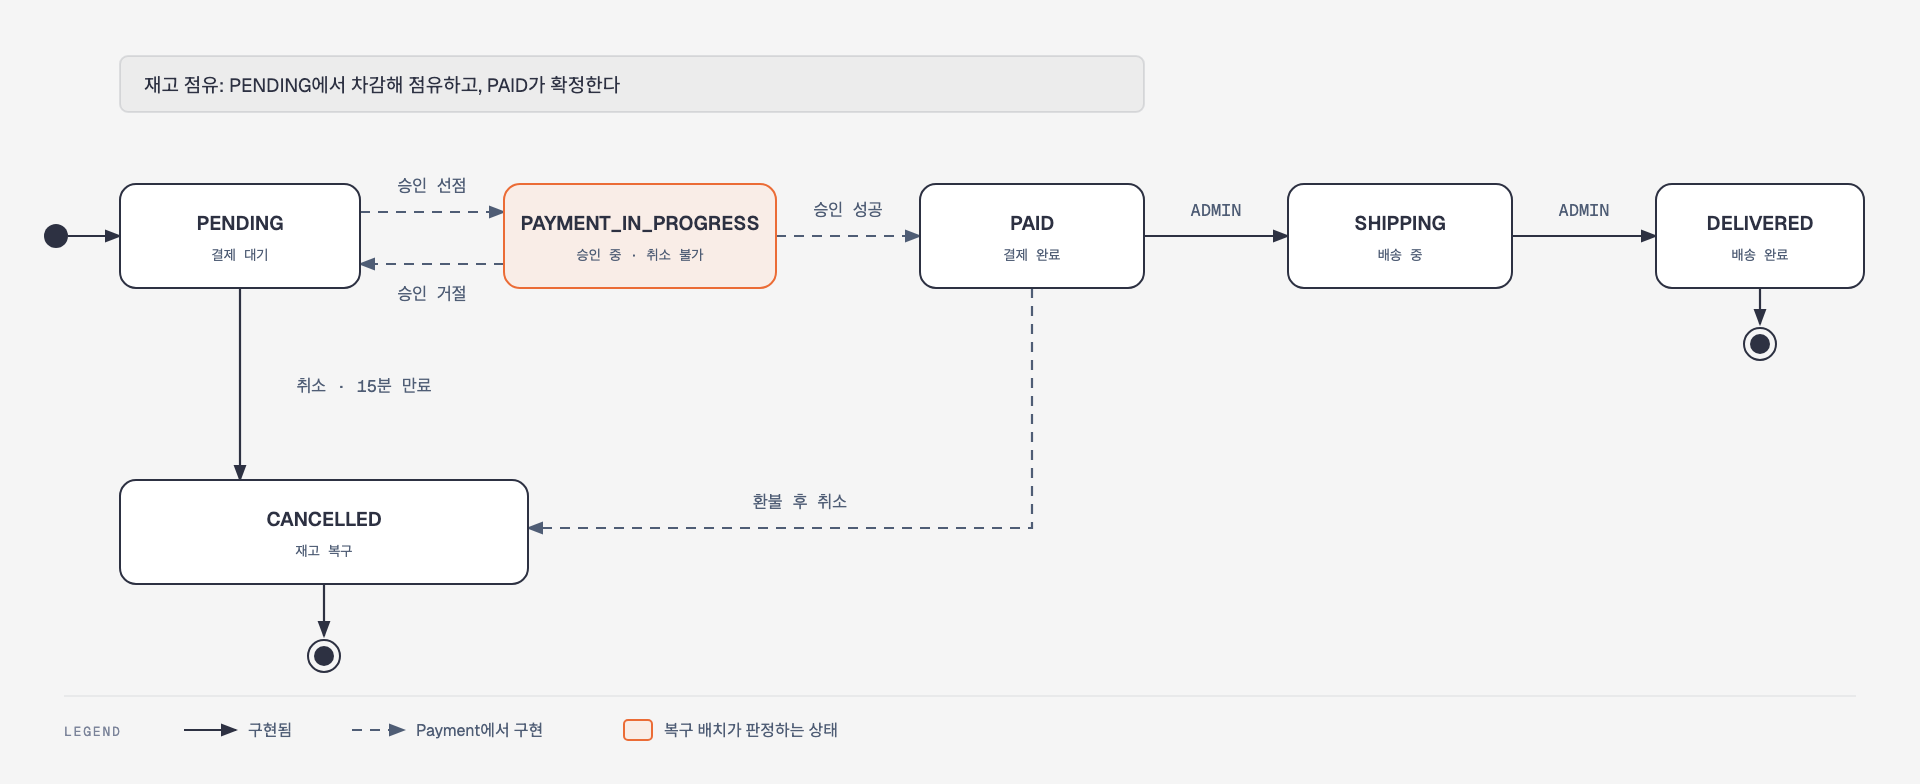
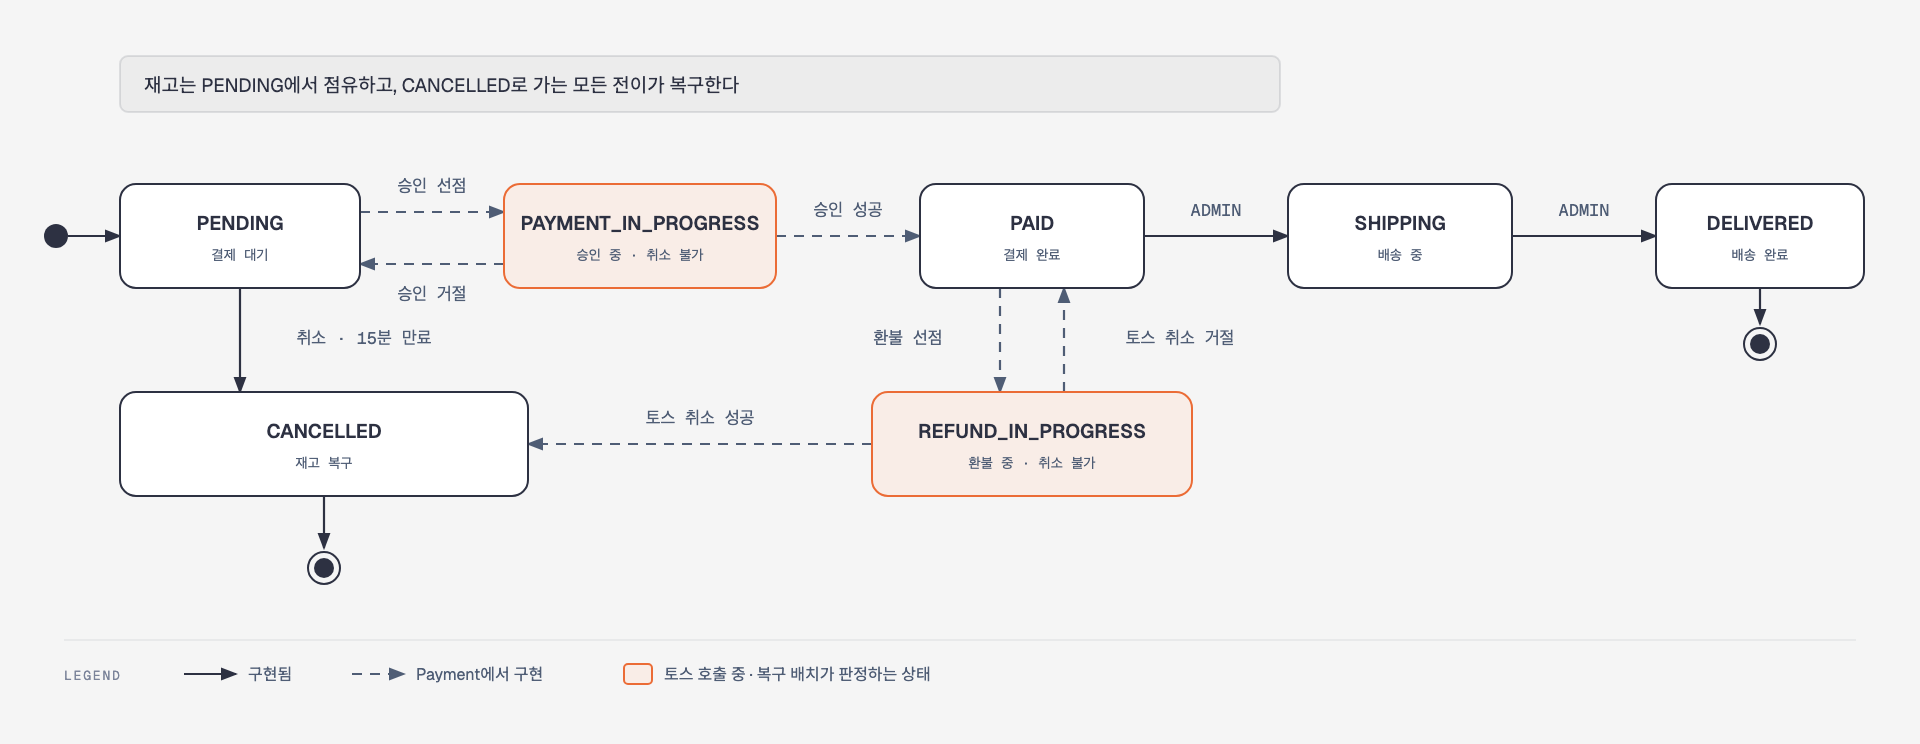
docs: 환불 흐름을 ADR로 정하고 주문·결제 계약에 반영한다
토스 취소도 되돌릴 수 없는 외부 호출이라 승인과 같이 선점·호출·반영으로 나누고, 재고는 토스 취소가 끝난 뒤에 푼다.
REFUND_IN_PROGRESS로 토스 호출 동안의 중복 취소와 배송 처리를 막는다.
환불은 PAID 전액만 받고, 별도 환불 API 없이 주문 취소 API로 처리한다.
토스 결제 취소 코드 33개를 확정 거절·결과 불명·경보로 나누고, 결과 불명은 승인 복구 배치가 함께 판정한다.
주문 상태 그림에 환불 상태를 넣고 order.md에 그림을 싣는다.

diff --git a/docs/diagrams/src/state-order.html b/docs/diagrams/src/state-order.html
@@ -8,11 +8,11 @@
 <style>html,body{margin:0;padding:0;background:#f5f5f5}svg{display:block}</style>
 </head>
 <body>
-<svg xmlns="http://www.w3.org/2000/svg" viewBox="0 0 960 392" width="960" height="392" role="img" aria-labelledby="state-order-title state-order-desc">
+<svg xmlns="http://www.w3.org/2000/svg" viewBox="0 0 960 372" width="960" height="372" role="img" aria-labelledby="state-order-title state-order-desc">
 <title id="state-order-title">주문 상태</title>
-<desc id="state-order-desc">주문이 결제 대기, 승인 중, 결제 완료, 배송을 거치거나 취소되는 상태 전이</desc>
-<defs><marker id="state-order-m" markerWidth="8" markerHeight="6" refX="7" refY="3" orient="auto"><polygon points="0 0, 8 3, 0 6" fill="#4f5d75"/></marker><marker id="state-order-i" markerWidth="8" markerHeight="6" refX="7" refY="3" orient="auto"><polygon points="0 0, 8 3, 0 6" fill="#2d3142"/></marker><marker id="state-order-l" markerWidth="8" markerHeight="6" refX="7" refY="3" orient="auto"><polygon points="0 0, 8 3, 0 6" fill="#2e5aa8"/></marker><marker id="state-order-a" markerWidth="8" markerHeight="6" refX="7" refY="3" orient="auto"><polygon points="0 0, 8 3, 0 6" fill="#eb6c36"/></marker></defs>
-<rect width="960" height="392" fill="#f5f5f5"/>
+<desc id="state-order-desc">주문이 결제 대기, 승인 중, 결제 완료, 배송을 거치거나 환불·취소되는 상태 전이</desc>
+<defs><marker id="state-order-m" markerWidth="8" markerHeight="6" refX="7" refY="3" orient="auto"><polygon points="0 0, 8 3, 0 6" fill="#4f5d75"/></marker><marker id="state-order-i" markerWidth="8" markerHeight="6" refX="7" refY="3" orient="auto"><polygon points="0 0, 8 3, 0 6" fill="#2d3142"/></marker></defs>
+<rect width="960" height="372" fill="#f5f5f5"/>
 <circle cx="28" cy="118" r="6" fill="#2d3142"/>
 <path d="M34 118 H60" fill="none" stroke="#2d3142" stroke-width="1.1" marker-end="url(#state-order-i)"/>
 <path d="M180 106 H252" fill="none" stroke="#4f5d75" stroke-width="1.1" stroke-dasharray="5,4" marker-end="url(#state-order-m)"/>
@@ -30,14 +30,20 @@
 <path d="M756 118 H828" fill="none" stroke="#2d3142" stroke-width="1.1" marker-end="url(#state-order-i)"/>
 <rect x="774" y="99" width="35" height="12" fill="#f5f5f5"/>
 <text x="792" y="108" fill="#4f5d75" font-size="8.5" font-weight="400" font-family="'Geist Mono',ui-monospace,monospace" text-anchor="middle">ADMIN</text>
-<path d="M120 144 V240" fill="none" stroke="#2d3142" stroke-width="1.1" marker-end="url(#state-order-i)"/>
-<rect x="141" y="187" width="82" height="12" fill="#f5f5f5"/>
-<text x="182" y="196" fill="#4f5d75" font-size="8.5" font-weight="400" font-family="'Geist Mono',ui-monospace,monospace" text-anchor="middle">취소 · 15분 만료</text>
-<path d="M516 144 V264 H264" fill="none" stroke="#4f5d75" stroke-width="1.1" stroke-dasharray="5,4" marker-end="url(#state-order-m)"/>
-<rect x="369" y="245" width="61" height="12" fill="#f5f5f5"/>
-<text x="400" y="254" fill="#4f5d75" font-size="8.5" font-weight="400" font-family="'Geist Mono',ui-monospace,monospace" text-anchor="middle">환불 후 취소</text>
-<rect x="60" y="28" width="512" height="28" rx="4" fill="#ececec" stroke="rgba(45,49,66,0.12)"/>
-<text x="72" y="46" fill="#2d3142" font-size="9.5" font-weight="400" font-family="'Geist','Noto Sans KR','Apple SD Gothic Neo',sans-serif" text-anchor="start">재고 점유: PENDING에서 차감해 점유하고, PAID가 확정한다</text>
+<path d="M120 144 V196" fill="none" stroke="#2d3142" stroke-width="1.1" marker-end="url(#state-order-i)"/>
+<rect x="141" y="163" width="82" height="12" fill="#f5f5f5"/>
+<text x="182" y="172" fill="#4f5d75" font-size="8.5" font-weight="400" font-family="'Geist Mono',ui-monospace,monospace" text-anchor="middle">취소 · 15분 만료</text>
+<path d="M500 144 V196" fill="none" stroke="#4f5d75" stroke-width="1.1" stroke-dasharray="5,4" marker-end="url(#state-order-m)"/>
+<rect x="430" y="163" width="48" height="12" fill="#f5f5f5"/>
+<text x="454" y="172" fill="#4f5d75" font-size="8.5" font-weight="400" font-family="'Geist Mono',ui-monospace,monospace" text-anchor="middle">환불 선점</text>
+<path d="M532 196 V144" fill="none" stroke="#4f5d75" stroke-width="1.1" stroke-dasharray="5,4" marker-end="url(#state-order-m)"/>
+<rect x="555" y="163" width="69" height="12" fill="#f5f5f5"/>
+<text x="590" y="172" fill="#4f5d75" font-size="8.5" font-weight="400" font-family="'Geist Mono',ui-monospace,monospace" text-anchor="middle">토스 취소 거절</text>
+<path d="M436 222 H264" fill="none" stroke="#4f5d75" stroke-width="1.1" stroke-dasharray="5,4" marker-end="url(#state-order-m)"/>
+<rect x="315" y="203" width="69" height="12" fill="#f5f5f5"/>
+<text x="350" y="212" fill="#4f5d75" font-size="8.5" font-weight="400" font-family="'Geist Mono',ui-monospace,monospace" text-anchor="middle">토스 취소 성공</text>
+<rect x="60" y="28" width="580" height="28" rx="4" fill="#ececec" stroke="rgba(45,49,66,0.12)"/>
+<text x="72" y="46" fill="#2d3142" font-size="9.5" font-weight="400" font-family="'Geist','Noto Sans KR','Apple SD Gothic Neo',sans-serif" text-anchor="start">재고는 PENDING에서 점유하고, CANCELLED로 가는 모든 전이가 복구한다</text>
 <rect x="60" y="92" width="120" height="52" rx="8" fill="#ffffff" stroke="#2d3142"/>
 <text x="120.0" y="115" fill="#2d3142" font-size="9.8" font-weight="600" font-family="'Geist','Noto Sans KR','Apple SD Gothic Neo',sans-serif" text-anchor="middle">PENDING</text>
 <text x="120.0" y="130" fill="#4f5d75" font-size="7" font-weight="400" font-family="'Geist Mono',ui-monospace,monospace" text-anchor="middle">결제 대기</text>
@@ -53,21 +59,24 @@
 <rect x="828" y="92" width="104" height="52" rx="8" fill="#ffffff" stroke="#2d3142"/>
 <text x="880.0" y="115" fill="#2d3142" font-size="9.8" font-weight="600" font-family="'Geist','Noto Sans KR','Apple SD Gothic Neo',sans-serif" text-anchor="middle">DELIVERED</text>
 <text x="880.0" y="130" fill="#4f5d75" font-size="7" font-weight="400" font-family="'Geist Mono',ui-monospace,monospace" text-anchor="middle">배송 완료</text>
-<rect x="60" y="240" width="204" height="52" rx="8" fill="#ffffff" stroke="#2d3142"/>
-<text x="162.0" y="263" fill="#2d3142" font-size="9.8" font-weight="600" font-family="'Geist','Noto Sans KR','Apple SD Gothic Neo',sans-serif" text-anchor="middle">CANCELLED</text>
-<text x="162.0" y="278" fill="#4f5d75" font-size="7" font-weight="400" font-family="'Geist Mono',ui-monospace,monospace" text-anchor="middle">재고 복구</text>
+<rect x="436" y="196" width="160" height="52" rx="8" fill="#f9ede7" stroke="#eb6c36"/>
+<text x="516.0" y="219" fill="#2d3142" font-size="9.8" font-weight="600" font-family="'Geist','Noto Sans KR','Apple SD Gothic Neo',sans-serif" text-anchor="middle">REFUND_IN_PROGRESS</text>
+<text x="516.0" y="234" fill="#4f5d75" font-size="7" font-weight="400" font-family="'Geist Mono',ui-monospace,monospace" text-anchor="middle">환불 중 · 취소 불가</text>
+<rect x="60" y="196" width="204" height="52" rx="8" fill="#ffffff" stroke="#2d3142"/>
+<text x="162.0" y="219" fill="#2d3142" font-size="9.8" font-weight="600" font-family="'Geist','Noto Sans KR','Apple SD Gothic Neo',sans-serif" text-anchor="middle">CANCELLED</text>
+<text x="162.0" y="234" fill="#4f5d75" font-size="7" font-weight="400" font-family="'Geist Mono',ui-monospace,monospace" text-anchor="middle">재고 복구</text>
 <circle cx="880" cy="172" r="8" fill="none" stroke="#2d3142"/><circle cx="880" cy="172" r="5" fill="#2d3142"/>
 <path d="M880 144 V162" fill="none" stroke="#2d3142" stroke-width="1.1" marker-end="url(#state-order-i)"/>
-<circle cx="162" cy="328" r="8" fill="none" stroke="#2d3142"/><circle cx="162" cy="328" r="5" fill="#2d3142"/>
-<path d="M162 292 V318" fill="none" stroke="#2d3142" stroke-width="1.1" marker-end="url(#state-order-i)"/>
-<line x1="32" y1="348" x2="928" y2="348" stroke="rgba(45,49,66,0.12)" stroke-width="0.6"/>
-<text x="32" y="368" fill="#7a8399" font-size="6.5" font-weight="400" font-family="'Geist Mono',ui-monospace,monospace" text-anchor="start" letter-spacing="0.14em">LEGEND</text>
-<path d="M92 365 H118" fill="none" stroke="#2d3142" stroke-width="1.1" marker-end="url(#state-order-i)"/>
-<text x="124" y="368" fill="#4f5d75" font-size="8" font-weight="400" font-family="'Geist','Noto Sans KR','Apple SD Gothic Neo',sans-serif" text-anchor="start">구현됨</text>
-<path d="M176 365 H202" fill="none" stroke="#4f5d75" stroke-width="1.1" stroke-dasharray="5,4" marker-end="url(#state-order-m)"/>
-<text x="208" y="368" fill="#4f5d75" font-size="8" font-weight="400" font-family="'Geist','Noto Sans KR','Apple SD Gothic Neo',sans-serif" text-anchor="start">Payment에서 구현</text>
-<rect x="312" y="360" width="14" height="10" rx="2" fill="#f9ede7" stroke="#eb6c36"/>
-<text x="332" y="368" fill="#4f5d75" font-size="8" font-weight="400" font-family="'Geist','Noto Sans KR','Apple SD Gothic Neo',sans-serif" text-anchor="start">복구 배치가 판정하는 상태</text>
+<circle cx="162" cy="284" r="8" fill="none" stroke="#2d3142"/><circle cx="162" cy="284" r="5" fill="#2d3142"/>
+<path d="M162 248 V274" fill="none" stroke="#2d3142" stroke-width="1.1" marker-end="url(#state-order-i)"/>
+<line x1="32" y1="320" x2="928" y2="320" stroke="rgba(45,49,66,0.12)" stroke-width="0.6"/>
+<text x="32" y="340" fill="#7a8399" font-size="6.5" font-weight="400" font-family="'Geist Mono',ui-monospace,monospace" text-anchor="start" letter-spacing="0.14em">LEGEND</text>
+<path d="M92 337 H118" fill="none" stroke="#2d3142" stroke-width="1.1" marker-end="url(#state-order-i)"/>
+<text x="124" y="340" fill="#4f5d75" font-size="8" font-weight="400" font-family="'Geist','Noto Sans KR','Apple SD Gothic Neo',sans-serif" text-anchor="start">구현됨</text>
+<path d="M176 337 H202" fill="none" stroke="#4f5d75" stroke-width="1.1" stroke-dasharray="5,4" marker-end="url(#state-order-m)"/>
+<text x="208" y="340" fill="#4f5d75" font-size="8" font-weight="400" font-family="'Geist','Noto Sans KR','Apple SD Gothic Neo',sans-serif" text-anchor="start">Payment에서 구현</text>
+<rect x="312" y="332" width="14" height="10" rx="2" fill="#f9ede7" stroke="#eb6c36"/>
+<text x="332" y="340" fill="#4f5d75" font-size="8" font-weight="400" font-family="'Geist','Noto Sans KR','Apple SD Gothic Neo',sans-serif" text-anchor="start">토스 호출 중 · 복구 배치가 판정하는 상태</text>
 </svg>
 </body>
 </html>

diff --git a/docs/decisions/purchase/0029-refund-outside-transaction.md b/docs/decisions/purchase/0029-refund-outside-transaction.md
@@ -1,0 +1,109 @@
+# ADR 0029 — 환불은 승인과 같이 선점·호출·반영으로 나누고 토스 취소가 끝난 뒤에 재고를 푼다
+
+- 상태: 채택
+- 일자: 2026-11-07
+- 관련: [ADR 0026](0026-payment-confirm-outside-transaction.md), [ADR 0028](0028-payment-result-whitelist-and-recovery-limit.md), [domains/purchase/payment.md](../../domains/purchase/payment.md), [domains/purchase/order.md](../../domains/purchase/order.md)
+
+## 맥락
+
+`PAID` 주문의 취소는 토스 결제 취소를 거쳐야 하는데, 지금은 환불 순서가 미정이라 `O002`로 거절한다.
+토스 취소도 승인처럼 **되돌릴 수 없는 외부 호출**이라 [ADR 0026](0026-payment-confirm-outside-transaction.md)과 같은 문제가 그대로 생긴다.
+
+- 하나의 트랜잭션으로 묶으면 토스 취소가 끝난 뒤 커밋이 실패할 때 돈은 돌려줬는데 주문은 `PAID`로 남는다
+- 토스가 느린 동안 커넥션과 `orders` 행 락을 쥐어 배송 처리와 다른 요청이 막힌다
+- 응답을 잃으면 환불됐는지 알 수 없다
+
+## 결정
+
+**환불을 선점·토스 취소·반영으로 나누고, 토스 취소는 트랜잭션 밖에서 호출한다. 재고는 토스 취소가 끝난 뒤에 푼다.**
+
+```
+OrderCancelService.cancel()          트랜잭션 없음. 상태를 보고 분기
+├─ PENDING → 기존 결제 전 취소
+└─ PAID    → RefundService.refund()  트랜잭션 없음
+     ├─ 선점 TX    CAS PAID → REFUND_IN_PROGRESS
+     ├─ 토스 취소  POST /v1/payments/{paymentKey}/cancel, Idempotency-Key: cancel-{paymentKey}
+     └─ 반영 TX    결과에 따라 전이
+```
+
+- 조율 메서드와 트랜잭션 메서드는 다른 빈에 둔다. 자기 호출이면 `@Transactional`이 무시된다
+- 진입점이 읽은 상태는 판단용이다. 실제 보호는 각 경로의 CAS가 한다
+
+### 범위
+
+| 항목 | 결정 |
+|---|---|
+| 환불 가능한 상태 | `PAID`만. `SHIPPING` 이후는 반품 회수가 필요해 범위 밖이다 |
+| 환불 금액 | 전액만. `cancelAmount`를 보내지 않는다 |
+| 진입점 | 회원은 주문 취소 API 하나로 처리하고 별도 환불 API를 두지 않는다. ADMIN은 상태 변경 API로 같은 경로를 탄다 |
+
+### 진행 중 상태 `REFUND_IN_PROGRESS`
+
+토스 호출 동안의 중복 취소와 배송 처리를 막는다. ADMIN의 `PAID → SHIPPING`도 `PAID`에 대한 CAS라 둘 중 하나만 성공한다.
+이 상태의 주문은 회원·ADMIN 모두 취소할 수 없다(`O003`).
+
+### 토스 취소 결과 판정
+
+[ADR 0028](0028-payment-result-whitelist-and-recovery-limit.md)과 같은 원칙이다. **환불되지 않았다고 확인된 코드만 확정 거절**이고 나머지는 결과 불명이다.
+코드는 [토스 에러 코드 문서](https://docs.tosspayments.com/reference/error-codes)의 결제 취소 표 33개다.
+
+| 결과 | 판정 | 처리 |
+|---|---|---|
+| 성공 | 2xx | CAS → `CANCELLED`, `Payment(REFUNDED)`, `products` 잠금 후 재고 복구. 한 트랜잭션 |
+| 확정 거절 | 아래 6개 | CAS → `PAID`, ERROR 로그, 응답 `PAY007` |
+| 결과 불명 | 나머지 전부, 타임아웃, 응답 유실 | 상태 유지, 응답 `PAY008`, 복구 배치가 판정 |
+
+**확정 거절 (6개)** — 토스가 취소를 받아들이지 않았고 결제는 그대로다
+
+`REFUND_REJECTED` `NOT_CANCELABLE_PAYMENT` `NOT_CANCELABLE_AMOUNT` `EXCEED_MAX_REFUND_DUE` `NOT_CANCELABLE_PAYMENT_FOR_DORMANT_USER` `EXCEED_CANCEL_LIMIT`
+
+사용자가 고칠 수 있는 원인이 아니라 확정 거절에도 ERROR 로그를 남긴다. 고객센터가 결제사 쪽 사유를 확인해야 한다.
+
+**결과 불명 (12개)** — 이미 취소됐거나 일시 오류다
+
+`ALREADY_CANCELED_PAYMENT` `ALREADY_REFUND_PAYMENT` `PROVIDER_ERROR` `FORBIDDEN_CONSECUTIVE_REQUEST` `NOT_AVAILABLE_BANK`
+`FAILED_INTERNAL_SYSTEM_PROCESSING` `FAILED_CARD_COMPANY_RESPONSE` `FAILED_REFUND_PROCESS` `FAILED_METHOD_HANDLING_CANCEL` `FAILED_PARTIAL_REFUND` `COMMON_ERROR` `FAILED_PAYMENT_INTERNAL_SYSTEM_PROCESSING`
+
+"이미 취소됨"을 바로 성공으로 처리하지 않는다. 복구 배치가 조회로 `CANCELED`를 확인하고 같은 반영을 한다 — 판정 경로를 하나로 둔다.
+
+**결과 불명 + 경보 (15개)** — 우리 설정 오류이거나 쓰지 않는 기능(가상계좌, 부분 취소)의 코드다. 나오면 설계 전제가 깨진 것이다
+
+`UNAUTHORIZED_KEY` `INCORRECT_BASIC_AUTH_FORMAT` `FORBIDDEN_REQUEST` `INVALID_REQUEST` `NOT_FOUND_PAYMENT` `INVALID_CANCEL_REQUEST_ID`
+`INVALID_REFUND_ACCOUNT_INFO` `INVALID_REFUND_ACCOUNT_NUMBER` `INVALID_BANK` `FORBIDDEN_BANK_REFUND_REQUEST` `FAILED_CLOSED_ACCOUNT_REFUND`
+`NOT_ALLOWED_PARTIAL_REFUND_WAITING_DEPOSIT` `NOT_ALLOWED_PARTIAL_REFUND` `EXCEED_CANCEL_AMOUNT_DISCOUNT_AMOUNT` `NOT_MATCHES_REFUNDABLE_AMOUNT`
+
+### 반영 CAS에 `payment_key`를 비교하지 않는다
+
+승인은 거절 뒤 재시도마다 `paymentKey`가 바뀌어 ABA 경로가 있었다. 환불은 결제 하나에 전액 취소 한 번뿐이고 `paymentKey`가 바뀌지 않는다.
+상태만으로 충분하다. 선점에 실패한 요청은 토스를 호출하지 않는다.
+
+### 복구
+
+[ADR 0028](0028-payment-result-whitelist-and-recovery-limit.md)의 복구 배치가 `REFUND_IN_PROGRESS`도 함께 판정한다. 판정 시간 5분, 1시간 종결 조건이 같다.
+
+| 토스 조회 결과 | 처리 |
+|---|---|
+| `CANCELED` | 성공 반영과 같은 전이. 환불 시각은 `cancels[].canceledAt` |
+| `DONE` | 취소되지 않았다. `PAID`로 복귀 |
+| `PARTIAL_CANCELED`, 그 밖 | 상태 유지, 경보 |
+| 조회 실패 | 상태 유지, 다음 주기에 재시도 |
+
+`DONE`으로 되돌린 뒤 재시도하면 같은 멱등키 `cancel-{paymentKey}`가 나간다. 앞선 취소가 실제로 처리 중이었다면 토스가 중복 취소를 막는다.
+
+## 배제한 대안과 근거
+
+| 대안 | 배제 이유 |
+|---|---|
+| 환불 전체를 한 트랜잭션으로 묶고 실패하면 롤백 | 롤백은 우리 DB만 되돌린다. 토스 취소 뒤 커밋이 실패하면 돈은 돌려줬는데 주문이 `PAID`로 남아 배송될 수 있다 |
+| 우리 상태를 먼저 `CANCELLED`로 바꾸고 재고를 푼 뒤 토스 취소 | 토스가 거절하면 결제는 살아 있는데 재고가 이미 팔려 나간다 |
+| 별도 환불 API (`POST /api/payments/{orderNumber}/refund`) | 사용자에게는 같은 "취소"다. 진입점이 둘이면 상태 분기가 두 곳에 생긴다 |
+| `SHIPPING`·`DELIVERED` 환불 | 반품 회수와 검수가 끼어 별도 상태 기계가 필요하다 |
+| "이미 취소됨" 코드를 즉시 성공 처리 | 판정 경로가 둘이 된다. 조회로 확인하는 경로 하나로 충분하다 |
+
+## 결과 / 되돌리려면
+
+- `OrderStatus`에 `REFUND_IN_PROGRESS`가 추가된다. `VARCHAR(20)` 안에 들어가 스키마 변경은 없다
+- `PAYMENT_IN_PROGRESS`와 `REFUND_IN_PROGRESS`는 모두 취소를 막으므로 `O003`의 메시지를 "결제 처리 중인 주문"으로 넓힌다
+- 에러 코드 `PAY007`(환불 거절), `PAY008`(환불 처리 중)이 추가된다
+- 결제 취소 표는 2026-11-07 기준이다. 새 코드는 결과 불명으로 처리되어 안전하다
+- 부분 환불이나 배송 후 반품을 열면 이 ADR을 대체하거나 보강한다

diff --git a/docs/diagrams/purchase/state-order.md b/docs/diagrams/purchase/state-order.md
@@ -2,7 +2,7 @@
 
 - **답하는 질문**: 주문은 어떤 상태를 거치고, 언제 재고를 점유·복구하는가
 - **범위**: `OrderStatus` 전체. 허용 전이의 기준은 [order.md](../../domains/purchase/order.md)의 상태 전환표다
-- **원천**: [order.md](../../domains/purchase/order.md) · [payment.md](../../domains/purchase/payment.md) · ADR [0016](../../decisions/purchase/0016-stock-reserved-at-order-not-cart.md) · [0026](../../decisions/purchase/0026-payment-confirm-outside-transaction.md)
+- **원천**: [order.md](../../domains/purchase/order.md) · [payment.md](../../domains/purchase/payment.md) · ADR [0016](../../decisions/purchase/0016-stock-reserved-at-order-not-cart.md) · [0026](../../decisions/purchase/0026-payment-confirm-outside-transaction.md) · [0029](../../decisions/purchase/0029-refund-outside-transaction.md)
 
 ![주문 상태](../images/state-order.png)
 
@@ -18,7 +18,9 @@ stateDiagram-v2
     PENDING --> CANCELLED: 취소 · 15분 만료
     PAID --> SHIPPING: ADMIN
     SHIPPING --> DELIVERED: ADMIN
-    PAID --> CANCELLED: 환불 후 취소 (Payment에서 구현)
+    PAID --> REFUND_IN_PROGRESS: 환불 선점 (Payment에서 구현)
+    REFUND_IN_PROGRESS --> PAID: 토스 취소 거절 (Payment에서 구현)
+    REFUND_IN_PROGRESS --> CANCELLED: 토스 취소 성공 (Payment에서 구현)
     DELIVERED --> [*]
     CANCELLED --> [*]
 ```
@@ -30,4 +32,5 @@ stateDiagram-v2
 - **재고는 `PENDING`에서 점유한다.** 주문 생성의 차감이 곧 점유이고, `CANCELLED`로 가는 모든 전이가 재고를 복구한다
 - **`PAYMENT_IN_PROGRESS`는 취소할 수 없다.** 토스 승인과 어긋날 수 있어서다. 결과를 모르면 복구 배치가 토스를 조회해 판정한다
 - 승인 거절로 돌아온 `PENDING`은 만료 시간이 다시 시작되어, 사용자가 다른 카드로 재시도할 수 있다
+- **환불도 토스 호출 중 상태를 거친다.** `REFUND_IN_PROGRESS` 동안에는 다시 취소하거나 배송 처리할 수 없고, 재고는 토스 취소가 끝난 뒤에 푼다
 - 점선은 Payment에서 구현한다. 지금 `PAID` 취소는 `O002`로 거절한다

diff --git a/docs/decisions/README.md b/docs/decisions/README.md
@@ -61,7 +61,8 @@
 | [0025](purchase/0025-pessimistic-lock-as-stock-concurrency-baseline.md) | 재고 동시성은 비관적 락을 기준선으로 시작하고 전환은 측정치로 판단한다 | 채택 |
 | [0026](purchase/0026-payment-confirm-outside-transaction.md) | 결제 승인은 트랜잭션 밖에서 호출하고 주문 상태 선점으로 한 번만 진입시킨다 | 채택 (0028이 보강) |
 | [0027](purchase/0027-idempotency-uk-violation-responds-conflict.md) | 멱등키 uk 위반은 기존 주문을 찾지 않고 409로 응답한다 | 채택 |
-| [0028](purchase/0028-payment-result-whitelist-and-recovery-limit.md) | 승인 거절은 확인된 코드만 인정하고 복구는 1시간 뒤 수동으로 넘긴다 | 채택 |
+| [0028](purchase/0028-payment-result-whitelist-and-recovery-limit.md) | 승인 거절은 확인된 코드만 인정하고 복구는 1시간 뒤 수동으로 넘긴다 | 채택 (0029가 보강) |
+| [0029](purchase/0029-refund-outside-transaction.md) | 환불은 승인과 같이 선점·호출·반영으로 나누고 토스 취소가 끝난 뒤에 재고를 푼다 | 채택 |
 
 ### platform — 전역 기반
 

diff --git a/docs/roadmap.md b/docs/roadmap.md
@@ -379,7 +379,7 @@ Cart 단계에서 밀린 장바구니 락 확인도 이때 함께 했다. 결과
 | 11 | 복구 배치 + 결제 조회 API | 배치 테스트 | ⬜ |
 | 12 | 환불 + `PAID` 취소(회원·ADMIN) | 서비스 테스트 | ⬜ |
 
-환불은 처리 순서와 토스 취소 실패 처리를 12단계 전에 ADR로 정한다.
+환불 흐름은 [ADR 0029](decisions/purchase/0029-refund-outside-transaction.md)가 정했다.
 
 승인 응답 판정과 복구 종결 조건은 [ADR 0028](decisions/purchase/0028-payment-result-whitelist-and-recovery-limit.md)이 정했다.
 

diff --git a/docs/decisions/purchase/0028-payment-result-whitelist-and-recovery-limit.md b/docs/decisions/purchase/0028-payment-result-whitelist-and-recovery-limit.md
@@ -1,6 +1,6 @@
 # ADR 0028 — 승인 거절은 확인된 코드만 인정하고 복구는 1시간 뒤 수동으로 넘긴다
 
-- 상태: 채택
+- 상태: 채택 (0029가 보강)
 - 일자: 2026-11-06
 - 관련: [ADR 0026](0026-payment-confirm-outside-transaction.md), [domains/purchase/payment.md](../../domains/purchase/payment.md), PR #16 리뷰
 
